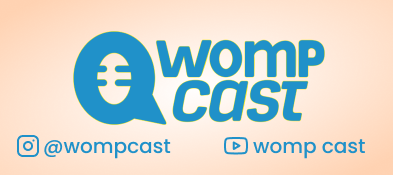
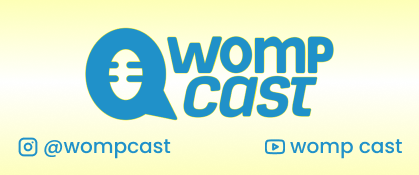
Correção na imagem de anuncio

diff --git a/src/pages/Anuncio/index.js b/src/pages/Anuncio/index.js
@@ -14,7 +14,7 @@ export default function Anuncio() {
 const styles = StyleSheet.create({
   container: {},
   imgAnuncio: {
-    height: 175,
+    height: 165,
     width: '100%',
     backgroundColor: '#1b1b1b'
   }
